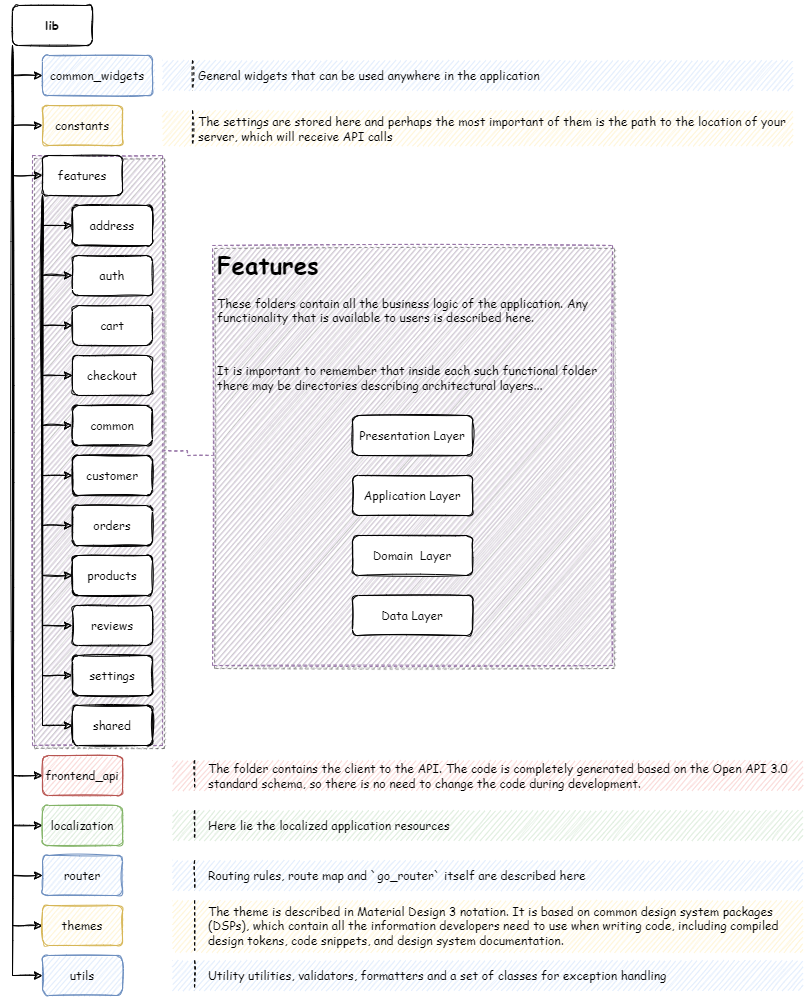
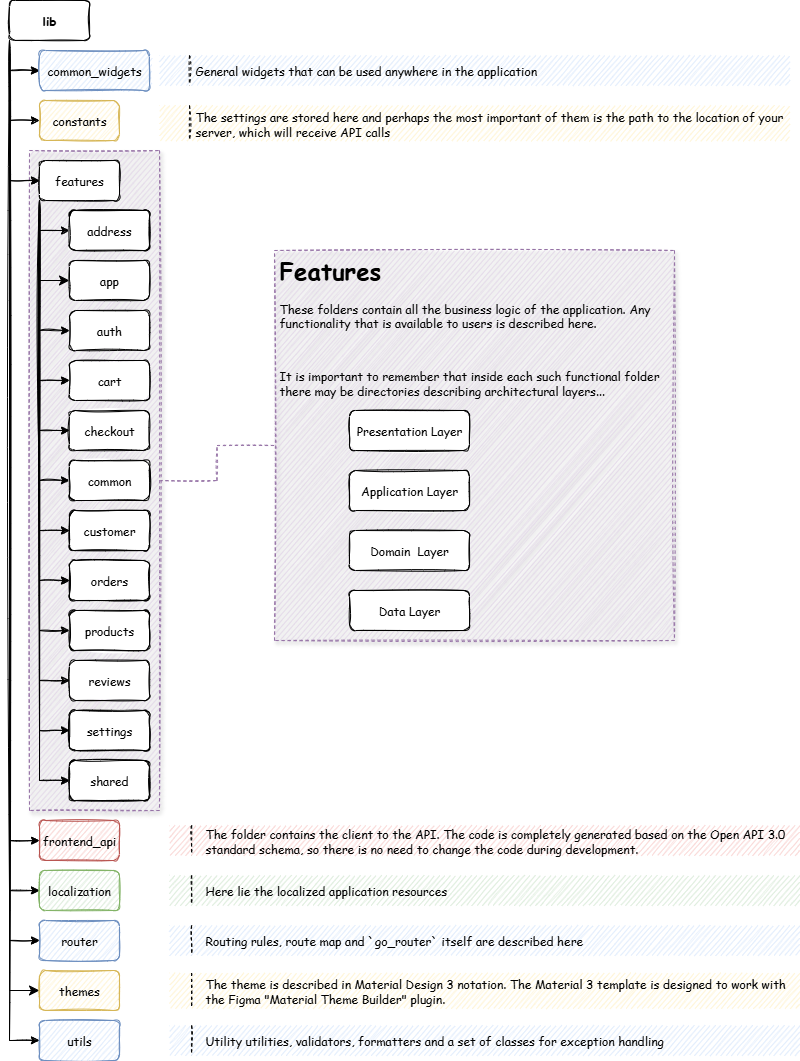
Updated mobile app documentation

Changed region(s): [[0.0, 0.0, 1.0, 1.0], [0.25, 0.2168, 0.8438, 0.6813], [0.625, 0.4645, 0.6562, 0.4955]]

diff --git a/en/developer/mobile-app/index.md b/en/developer/mobile-app/index.md
@@ -86,12 +86,6 @@ Description: Dart language support and debugger for Visual Studio Code.\
 Publisher: Dart Code\
 VS Marketplace Link: <https://marketplace.visualstudio.com/items?itemName=Dart-Code.dart-code>
 
-Name: **Adobe XD**\
-Id: adobe.xd\
-Description: The new Adobe XD Extension for Visual Studio Code allows developers to visually map design sources, created in XD and available in Creative Cloud Libraries, to platform-specific code using design tokens. DesignOps teams will be able to create shareable Design System Packages (DSPs) that contain all the information developers need to consume while coding, including code snippets and documentation. \
-Publisher: Adobe\
-VsixHub Link: <https://www.vsixhub.com/vsix/41158/>
-
 ## Start development and customization
 
 Open the source code from the archive that you will receive after purchasing the application in the Visual Studio Code editor.
@@ -130,12 +124,12 @@ The approach that focuses on the fact that the functions of the application are 
 
 Frameworks & Libraries used:
 
-- Flutter SDK 3.24.5
-- Dart SDK 3.5.4
-- flutter_riverpod: 2.5.1
-- go_router: 14.6.2
-- flutter_secure_storage: 9.2.2
-- dio: 5.7.0
+- Flutter SDK 3.35.1
+- Dart SDK 3.9.0
+- flutter_riverpod: 2.6.1
+- go_router: 16.1.0
+- flutter_secure_storage: 9.2.4
+- dio: 5.9.0
 
 > [!IMPORTANT]
 >
@@ -154,40 +148,41 @@ For navigation in the application, the [go_router](https://pub.dev/packages/go_r
 The navigation map in the app looks like this:
 
 ```bash
-Full paths for routes:
-    splash => /splash
-    home => /home
-    catalog => /catalog
-    category => /catalog/category/:id
-    manufacturer => /catalog/manufacturer/:id
-    vendor => /catalog/vendor/:id
-    productsbytag => /catalog/productsByTag/:id
-    productsearch => /catalog/productSearch/:q
-    product => /catalog/product/:id
-    review => /catalog/product/:id/review
-    addreview => /catalog/product/:id/addReview
-    cart => /cart
-    checkout => /cart/checkout
-    account => /account
-    logincheckout => /account/logincheckout
-    login => /account/login
-    forgotpassword => /account/login/forgotPassword
-    register => /account/register
-    settings => /account/settings
-    contactus => /account/contactUs
-    wishlist => /account/wishlist
-    accountinfo => /account/accountInfo
-    accountaddresses => /account/accountAddresses
-    createupdateaddress => /account/accountAddresses/createUpdateAddress/:id
-    accountorders => /account/accountOrders
-    orderdetails => /account/accountOrders/orderDetails/:id
-    accountdownloadableproducts => /account/accountDownloadableProducts
-    accountbackinstock => /account/accountBackInStock
-    accountrewardpoints => /account/accountRewardPoints
-    accountchangepassword => /account/accountChangePassword
-    accountproductreviews => /account/accountProductReviews
-    accountreturnrequests => /account/accountReturnRequests
-    returnrequest => /account/returnRequest/:id
+├─/splash (SplashScreen)
+└─ (ShellRoute)
+  ├─/home 
+  ├─/catalog 
+  │ ├─/catalog/category/:id (CategoryDetailsScreen)
+  │ ├─/catalog/manufacturer/:id (ManufacturerDetailsScreen)
+  │ ├─/catalog/vendor/:id (VendorDetailsScreen)
+  │ ├─/catalog/productsByTag/:id (ProductsByTagScreen)
+  │ ├─/catalog/productSearch/:q (ProductsSearchScreen)
+  │ └─/catalog/product/:id (ProductDetailsScreen)
+  │   ├─/catalog/product/:id/review (ProductReviewScreen)
+  │   └─/catalog/product/:id/addReview 
+  ├─/cart 
+  │ └─/cart/checkout 
+  └─/account 
+    ├─/account/logincheckout 
+    ├─/account/login 
+    │ └─/account/login/forgotPassword (ForgotPasswordScreen)
+    ├─/account/register 
+    ├─/account/settings 
+    ├─/account/contactUs 
+    ├─/account/wishlist (WishlistScreen)
+    ├─/account/accountInfo (AccountInfoScreen)
+    ├─/account/accountAddresses (AccountAddressesScreen)
+    │ └─/account/accountAddresses/createUpdateAddress/:id teAddressScreen)
+    ├─/account/accountOrders (AccountOrdersScreen)
+    │ └─/account/accountOrders/orderDetails/:id (OrderDetailsScreen)
+    ├─/account/accountDownloadableProducts nloadableProductsScreen)
+    ├─/account/accountBackInStock (AccountBackInStockScreen)
+    ├─/account/accountRewardPoints (AccountRewardPointsScreen)
+    ├─/account/accountChangePassword (AccountChangePassword)
+    ├─/account/accountProductReviews (AccountProductReviewsScreen)
+    ├─/account/accountGdprTools (AccountGdprToolsScreen)
+    ├─/account/accountReturnRequests (AccountReturnRequestsScreen)
+    └─/account/returnRequest/:id (ReturnRequestScreen)
 ```
 
 ## Web API client generation
@@ -208,7 +203,7 @@ Use the [dart-dio](https://openapi-generator.tech/docs/generators/dart-dio) gene
   "$schema": "node_modules/@openapitools/openapi-generator-cli/config.schema.json",
   "spaces": 2,
   "generator-cli": {
-    "version": "7.10.0",
+    "version": "7.14.0",
     "generators": {
         "frontend": {
             "input-spec": "swagger.json",
@@ -244,7 +239,7 @@ It is necessary that the OpenAPI schema *swagger.json* be in the directory with 
     ```bash
     cd frontend_api
     flutter pub get  
-    flutter pub run build_runner build -d
+    dart run build_runner build -d
     ```
 
     As a result, we get a ready-made package, which will be located where you specified in  the configuration file or console command. It remains to include it in *pubspec.yaml*:
@@ -268,7 +263,7 @@ Run the following command in a terminal to generate the required resource files 
 flutter gen-l10n
 ```
 
-You can make sure that all the necessary resources are generated correctly in the `.dart_tool\flutter_gen\gen_l10n` path.
+You can make sure that all the necessary resources are generated correctly in the `lib\localization\generated\i18n` path.
 
 ![image](./_static/index/localization.png)
 
@@ -295,94 +290,116 @@ Using tokens provides several advantages:
 
 ### Integrating Tokens from Design Tools
 
-[Material Theme Builder](https://m3.material.io/theme-builder) allows designers to create custom themes and export tokens in multiple formats, including Flutter code.
+**Material Theme Builder** (MTB) is a designer/developer tool for creating Material Design 3 (M3) color & type tokens and exporting them as code (Flutter, Compose, Android XML, design tokens, etc.). It helps you produce coordinated light/dark `ColorScheme`s from a seed/brand color, preview components, and export ready-to-use artifacts for implementation.
 
-You don’t need an existing project - the theme will be generated from scratch by the plugin. So, download the plugin and launch it in Figma:
+#### Generate a color scheme
 
-![image](./_static/index/material_theme_builder.png)
+1. Open the **[Material Theme Builder](https://m3.material.io/theme-builder)**.
 
-Click **Create Theme**:
-![image](./_static/index/create_theme.png)
+1. Pick a seed / primary color
 
-A theme with default colors will be generated. Go to the **Custom** tab:
+   - Enter a hex value, use the color picker, or use an eyedropper. The seed (primary) color is the single starting point from which tonal palettes are generated.
 
-![image](./_static/index/custom_colors.png)
+     ![image](./_static/index/color-picker.png)
 
-Here you need to select the base colors for the entire scheme. You can enter them manually, for example, if your brand colors are already defined. On the **Dynamic** tab, you can upload an image and extract colors from it. It is recommended to use the service [https://coolors.co/](https://coolors.co/) to generate harmonious colors.
+   - You can also enable *dynamic color* input (wallpaper/image) or import an image to extract colors — MTB will derive tonal palettes from that source.
 
-Сlick **Start the generator**:
+     ![image](./_static/index/source-image.png)
 
-![image](./_static/index/make_colors.png)
+1. Choose or tweak secondary / tertiary / error / neutral colors
 
-You can delete the extra blocks until only 3 remain, and then press the spacebar to generate variations.
+   MTB shows slots for common roles (secondary, tertiary, error, neutral, etc.). You can accept automatically-generated values or override specific role colors (enter hex values manually). The builder keeps role relationships consistent with M3 rules.
 
-Replace the colors in the palette and click **Export**:
+   ![image](./_static/index/core-colors.png)
 
-![image](./_static/index/export_colors.png)
+   Here you need to select the base colors for the entire scheme. You can enter them manually, for example, if your brand colors are already defined. On the **Dynamic** panel, you can upload an image and extract colors from it. It is recommended to use the service [https://coolors.co/](https://coolors.co/) to generate harmonious colors.
 
-> [!IMPORTANT]
+   Сlick **Start the generator**:
+
+   ![image](./_static/index/make_colors.png)
+
+   You can delete the extra blocks until only 3 remain, and then press the spacebar to generate variations.
+
+1. Switch between Light and Dark previews
+
+   Toggle Light/Dark to immediately see both schemes;
+
+   ![image](./_static/index/light-scheme.png)
+
+   MTB generates paired light/dark `ColorScheme`s so contrast & visual hierarchy are preserved across brightness modes.
+
+   ![image](./_static/index/dark-scheme.png)
+
+1. Preview components and surfaces
+
+   The builder has live previews (app bars, buttons, chips, cards, list items, navigation bars, dialogs). Use them to validate how your palette behaves on surfaces, text, icons, and interactive controls.
+
+   ![image](./_static/index/preview-components.gif)
+
+1. Use color-matching / harmonization
+
+   If you have brand colors that clash with generated tonal palettes, MTB offers color-matching or harmonization modes that nudge palettes to harmonize with brand hues while still following M3 tonal rules. This is useful when starting from multiple brand colors.
+
+   ![image](./_static/index/extended-colors.png)
+
+1. Typography
+
+   Select base font family. MTB can produce tokens for typography (weights, sizes, line heights) to accompany your color tokens.
+
+   ![image](./_static/index/choose-fonts.png)
+
+1. Export
+
+    Choose the export format - **Flutter (Dart)**, then export/download a ZIP with code artifacts and token files. For Flutter, the builder typically generates `theme.dart` that you can drop into your project.
+
+    ![image](./_static/index/export.png)
+
+#### Overview of the theme.dart file
+
+Once you've created your color palette in *Material Theme Builder* and exported it, you'll get a `theme.dart` file. This file is the starting point for styling your app. Typically, its main content is two `ColorScheme` objects:
+
+- `lightScheme`: Defines a set of colors for your app's light theme (e.g. background, text, and accent colors in light mode).
+
+- `darkScheme`: Defines the same colors for your dark theme.
+
+These schemes are generated based on the seed color you choose and ensure a harmonious and consistent color combination throughout your app, following the principles of Material Design 3.
+
+#### Integration `theme.dart` into the project
+
+To keep your project structure organized, it is recommended to store theme-related files in a separate directory.
+
+Peplace the generated `ColorScheme` objects from `theme.dart` into - `lib/themes/material_theme.dart`.
+
+As your design system grows, you may need to introduce custom tokens (e.g., specific brand colors, semantic states). Use extensions. This code demonstrates which extension tokens are used in the mobile application.
+
+```dart
+ThemeData theme(ColorScheme colorScheme) => ThemeData(
+        useMaterial3: true,
+        brightness: colorScheme.brightness,
+        colorScheme: colorScheme,
+        textTheme: textTheme.apply(
+          bodyColor: colorScheme.onSurface,
+          displayColor: colorScheme.onSurface,
+        ),
+        scaffoldBackgroundColor: colorScheme.surface,
+        canvasColor: colorScheme.surface,
+        // defailt extensions - BEGIN
+        extensions: [
+          CustomColors(
+            subTextColor: colorScheme.onSurfaceVariant,
+            ratingStarColor: colorScheme.secondary,
+            pictureIndicatorColor: colorScheme.surfaceContainerHighest,
+            pictureIndicatorCurrentColor: colorScheme.primary,
+            inStockColor: colorScheme.tertiary,
+            outOfStockColor: colorScheme.error,
+          ),
+        ],
+        // defailt extensions - END
+      );
+```
+
+>[!NOTE]
 >
-> Be aware that you can’t edit the created palette later. If you close and reopen the plugin, your colors will reset to default.
-
-Then select **Export Material Tokens (DSP):**
-
-![image](./_static/index/export_material_tokens.png)
-
-You’ll get a folder with the following contents:
-
-- `data` folder
-- `dsp.json`
-
-In the `Themes > nopCommerce` folder, copy only the `data` folder. Leave the `dsp.json` file unchanged, as it’s includes custom `build_params` that refer to a custom configuration file `custom_config.js`. This custom config file is used to generate `font-size` in the desired format.
-
-![image](./_static/index/nop_theme_struct.png)
-
-You'll also notice that the theme folder includes `assets`, `dist`, and `fonts` subfolders. The `assets` and `dist` folders are generated automatically by the Adobe XD library (only the `custom_config.js` file was manually added there). The `fonts` folder contains the necessary fonts.
-
-Now we need to regenerate the `style_dictionary.dart` file from the `dist` folder. This file contains constants linked to the palette colors and fonts. As noted in the file itself—**do not edit it manually**.
-
-![image](./_static/index/style_dictionary.png)
-
-Next, you'll need the **Adobe XD extension for VS Code**. This extension generates a Dart file using the [Style Dictionary library](https://amzn.github.io/style-dictionary/#/README). Technically, you can do without Adobe XD, but it's more convenient to do it through the extension interface.
-
-![image](./_static/index/adobe_xd.png)
-
-Once installed, you can open the extension by clicking the **XD** button at the bottom of the VS Code window:
-
-![image](./_static/index/open_adobe_xd.png)
-
-To load a new DSP package, click the **box icon** at the top:
-
-![image](./_static/index/load_dsp.png)
-
-In the window that appears, choose **Edit package**:
-
-![image](./_static/index/edit_package.png)
-
-Then click **Select folder**:
-
-![image](./_static/index/select_folder.png)
-
-Choose the folder with the theme `nopCommerce` and click **Load package**:
-
-![image](./_static/index/load_package.png)
-
-You should now see the tokens and, if everything went well, the colors you selected in Figma.
-
-Next, we need to regenerate the `StyleDictionary` class, which is used to create the color scheme. To do this, click **Start editing**:
-
-![image](./_static/index/start_editing.png)
-
-Without changing anything, click **Finish editing**:
-
-![image](./_static/index/finish_editing.png)
-
-If you see the following message afterward, everything went correctly:
-
-![image](./_static/index/tokens_compiled.png)
+> You can use the entire contents of the `theme.dart` file, but don't forget to include the default extensions that are available in the `custom_color_scheme.dart` file.
 
 That’s it — restart the application and enjoy your new color scheme.
-
-> [!NOTE]
->
-> By the way, keep an eye on the fonts. Even though you see **Roboto** in Figma, they might magically download as **Google Sans**.
